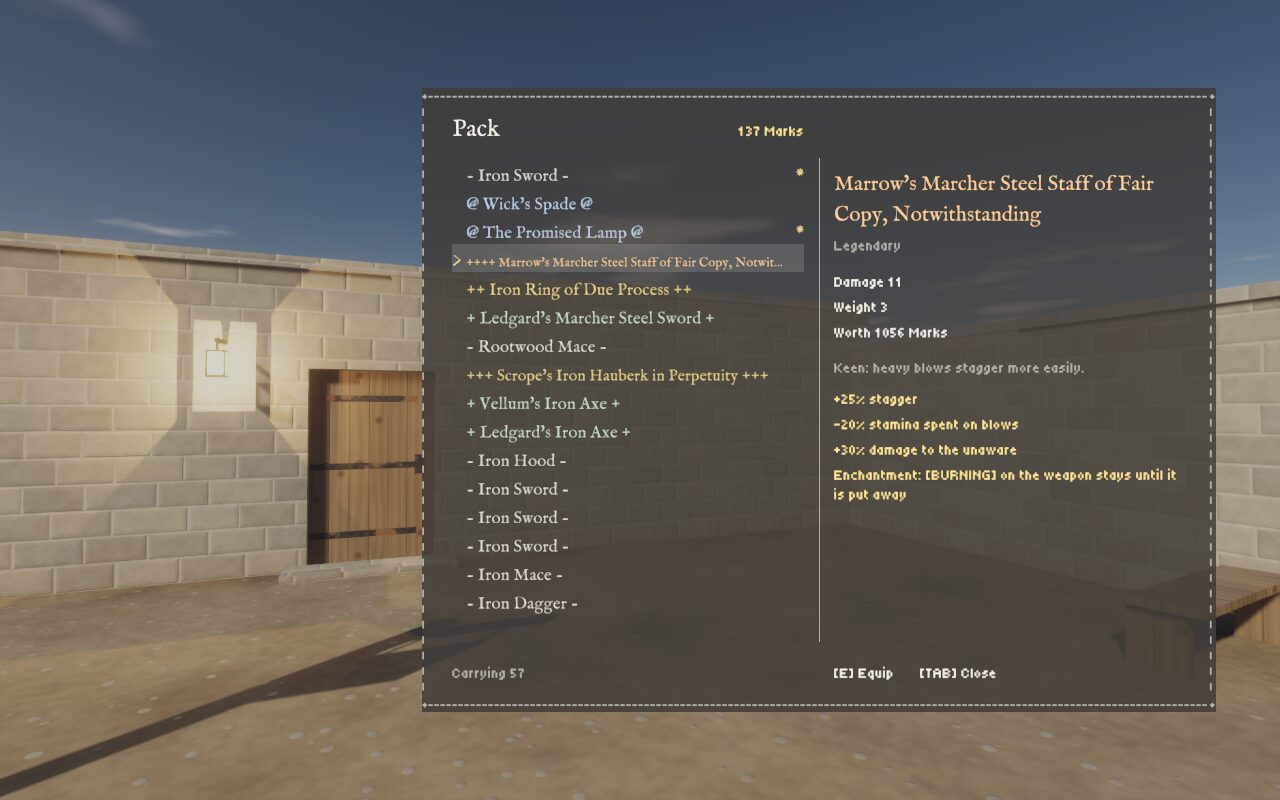
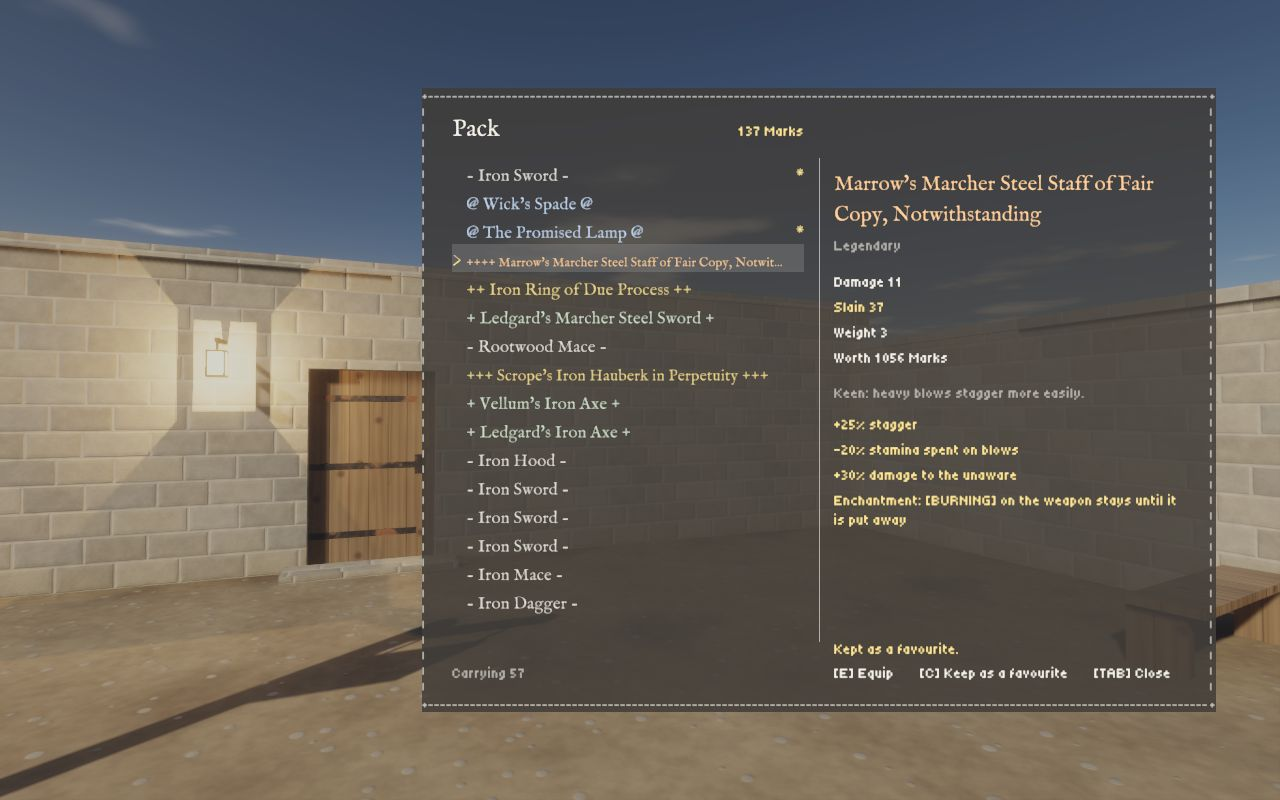
feat(S05-T08): every weapon counts what it has slain
Kept on the item, saved (save version 5, older versions still read), and shown
on its page in the pack. Printing it on the blade waits on the blade's text.

Claude-Session: https://claude.ai/code/session_01729CUtx9ecYqazyoA1zXTK

Changed region(s): [[0.6562, 0.375, 0.9062, 0.6562], [0.6562, 0.7812, 0.9062, 0.8438]]

diff --git a/crates/sim/src/items.rs b/crates/sim/src/items.rs
@@ -74,6 +74,9 @@ pub struct Item {
     pub made: u32,
     /// A Canonical item, by its index in the table's list: its own name and effect.
     pub canonical: Option<usize>,
+    /// What it has done in its owner's hands: the creatures it has slain. A weapon, bow,
+    /// staff, or shield prints it on itself.
+    pub kills: u32,
 }
 
 /// An item's name, as string keys: each part, or none.
@@ -164,7 +167,7 @@ pub fn generate(table: &LootTable, source: &str, seed: u64, known: &[String]) ->
     } else {
         None
     };
-    Some(Item { id: seed, kind, material, tier, bonuses, clauses, word_clause, look: (r.next() % 12) as u32, made: 4060 + (r.next() % 52) as u32, canonical: None })
+    Some(Item { id: seed, kind, material, tier, bonuses, clauses, word_clause, look: (r.next() % 12) as u32, made: 4060 + (r.next() % 52) as u32, canonical: None, kills: 0 })
 }
 
 impl Item {
@@ -173,14 +176,14 @@ impl Item {
     pub fn plain(table: &LootTable, kind: &str, material: &str, id: u64) -> Option<Item> {
         let kind = table.types.iter().position(|t| t.key == kind)?;
         let material = table.materials.iter().position(|m| m.key == material)?;
-        Some(Item { id, kind, material, tier: Tier::Plain, bonuses: Vec::new(), clauses: Vec::new(), word_clause: None, look: 0, made: 4100, canonical: None })
+        Some(Item { id, kind, material, tier: Tier::Plain, bonuses: Vec::new(), clauses: Vec::new(), word_clause: None, look: 0, made: 4100, canonical: None, kills: 0 })
     }
 
     /// A Canonical item, by its key: it has its one authored source.
     pub fn canonical(table: &LootTable, key: &str, id: u64) -> Option<Item> {
         let k = table.canonical.iter().position(|c| c.key == key)?;
         let c = &table.canonical[k];
-        Some(Item { id, kind: c.kind as usize, material: c.material as usize, tier: Tier::Canonical, bonuses: Vec::new(), clauses: Vec::new(), word_clause: None, look: 0, made: 4071, canonical: Some(k) })
+        Some(Item { id, kind: c.kind as usize, material: c.material as usize, tier: Tier::Canonical, bonuses: Vec::new(), clauses: Vec::new(), word_clause: None, look: 0, made: 4071, canonical: Some(k), kills: 0 })
     }
 
     /// A Canonical item's own effect, if it is one.

diff --git a/crates/sim/src/save.rs b/crates/sim/src/save.rs
@@ -12,7 +12,9 @@ use glam::{Quat, Vec3};
 
 use crate::items::{Item, Tier};
 
-const MAGIC: &[u8; 8] = b"VLMKSAV4";
+const MAGIC: &[u8; 8] = b"VLMKSAV5";
+/// The version before items kept their kills: still read, with none counted.
+const MAGIC_4: &[u8; 8] = b"VLMKSAV4";
 /// The version before Redactors struck things: still read, with nothing struck.
 const MAGIC_3: &[u8; 8] = b"VLMKSAV3";
 /// The version before the story's flags were kept: still read, with none set.
@@ -133,11 +135,13 @@ impl W {
         self.u32(i.look);
         self.u32(i.made);
         self.opt_u32(i.canonical.map(|c| c as u32));
+        self.u32(i.kills);
     }
 }
 
 /// Bytes in.
-struct R<'a>(&'a [u8], usize);
+/// The bytes, how far through them, and the save's version.
+struct R<'a>(&'a [u8], usize, u32);
 
 impl R<'_> {
     fn take(&mut self, n: usize) -> Result<&[u8], String> {
@@ -200,7 +204,9 @@ impl R<'_> {
             clauses.push(self.u32()? as usize);
         }
         let word_clause = self.opt_u32()?.map(|w| w as usize);
-        Ok(Item { id, kind, material, tier, bonuses, clauses, word_clause, look: self.u32()?, made: self.u32()?, canonical: self.opt_u32()?.map(|c| c as usize) })
+        let (look, made, canonical) = (self.u32()?, self.u32()?, self.opt_u32()?.map(|c| c as usize));
+        let kills = if self.2 >= 5 { self.u32()? } else { 0 };
+        Ok(Item { id, kind, material, tier, bonuses, clauses, word_clause, look, made, canonical, kills })
     }
 }
 
@@ -311,12 +317,13 @@ impl SaveGame {
 
     pub fn from_bytes(bytes: &[u8]) -> Result<Self, String> {
         let version = match &bytes.get(..8) {
-            Some(m) if *m == MAGIC => 4,
+            Some(m) if *m == MAGIC => 5,
+            Some(m) if *m == MAGIC_4 => 4,
             Some(m) if *m == MAGIC_3 => 3,
             Some(m) if *m == MAGIC_2 => 2,
             _ => return Err("not a Vellmark save".into()),
         };
-        let mut r = R(bytes, 8);
+        let mut r = R(bytes, 8, version);
         let mut s = SaveGame { seconds: r.f64()?, time_of_day: r.f32()?, day: r.u32()?, mornings: r.u32()?, rng: r.u64()?, ..Default::default() };
         for _ in 0..r.count()? {
             let feet = r.v3()?;

diff --git a/crates/sim/tests/items.rs b/crates/sim/tests/items.rs
@@ -82,7 +82,7 @@ fn better_steel_strikes_harder_and_armour_takes_its_share() {
     let iron = first_blow(&mut plain);
     let mut better = world();
     let me = better.snapshot().players[0].id;
-    let fine = Item { id: 9, kind: 0, material: 1, tier: Tier::Fair, bonuses: vec![0], clauses: vec![], word_clause: None, look: 0, made: 4100, canonical: None };
+    let fine = Item { id: 9, kind: 0, material: 1, tier: Tier::Fair, bonuses: vec![0], clauses: vec![], word_clause: None, look: 0, made: 4100, canonical: None, kills: 0 };
     let i = better.give_item(me, fine).unwrap();
     better.equip(me, i);
     let steel = first_blow(&mut better);
@@ -127,4 +127,33 @@ fn the_hands_are_kept_as_a_favourite_and_a_sold_thing_is_forgotten() {
     let mut inv = w.inventory(me).unwrap().clone();
     inv.remove(bow);
     assert_eq!(inv.favourites, vec![(Some(coat - 1), Favourite::Empty)]);
+}
+
+#[test]
+fn a_weapon_counts_what_it_has_slain_and_keeps_the_count_in_a_save() {
+    let mut w = world();
+    let me = w.snapshot().players[0].id;
+    for k in 0..2 {
+        let mut c = Creature::new(60 + k, Vec3::new(0.0, 0.0, -1.6), 0.4, 1.8, 5.0, 100.0);
+        c.aware = true;
+        w.add_creature(c);
+        go(&mut w, 3, buttons::ATTACK_MAIN);
+        go(&mut w, 40, 0);
+    }
+    let sword = w.inventory(me).unwrap().main.unwrap();
+    assert_eq!(w.inventory(me).unwrap().items[sword].kills, 2, "two slain with the sword");
+    // A creature struck and not slain is not counted.
+    let mut c = Creature::new(70, Vec3::new(0.0, 0.0, -1.6), 0.4, 1.8, 5000.0, 100.0);
+    c.aware = true;
+    w.add_creature(c);
+    go(&mut w, 3, buttons::ATTACK_MAIN);
+    go(&mut w, 40, 0);
+    assert_eq!(w.inventory(me).unwrap().items[sword].kills, 2);
+    let save = w.save();
+    let back = vellmark_sim::save::SaveGame::from_bytes(&save.to_bytes()).unwrap();
+    let mut again = world();
+    again.load(&back);
+    let me = again.snapshot().players[0].id;
+    let sword = again.inventory(me).unwrap().main.unwrap();
+    assert_eq!(again.inventory(me).unwrap().items[sword].kills, 2, "kept in the save");
 }

diff --git a/crates/sim/src/world.rs b/crates/sim/src/world.rs
@@ -1996,6 +1996,16 @@ impl World {
                 }
             }
         }
+        // What each weapon has done: a creature slain is counted on what slew it, the
+        // shield for a bash and the main hand's for the rest.
+        for hit in self.hits.iter().filter(|h| h.killed) {
+            if let Some(p) = self.players.iter_mut().find(|p| p.id.0 == hit.player) {
+                let slot = if hit.kind == crate::melee::SwingKind::Bash { p.inventory.off } else { p.inventory.main };
+                if let Some(item) = slot.and_then(|i| p.inventory.items.get_mut(i)) {
+                    item.kills = item.kills.saturating_add(1);
+                }
+            }
+        }
         // What a blow carries passes to what it struck; a shattering blow ends the frost.
         let mut changed = false;
         for hit in &self.hits {

diff --git a/crates/harness/tests/inventory.rs b/crates/harness/tests/inventory.rs
@@ -59,7 +59,9 @@ fn the_pack_lists_what_is_carried_and_pages_the_focused_item() {
         let item = generate(&loot, if seed % 2 == 0 { "boss" } else { "chest" }, seed, &["COLD".into()]).unwrap();
         if !seen[item.tier as usize] && (item.tier as usize != 4 || item.word_clause.is_some()) {
             seen[item.tier as usize] = true;
-            inv.take(item);
+            // The Illuminated one has seen use: its count is on its page.
+            let kills = if item.tier as usize == 4 { 37 } else { 0 };
+            inv.take(Item { kills, ..item });
         }
     }
     for seed in 0..10u64 {

diff --git a/crates/ui/src/inventory_view.rs b/crates/ui/src/inventory_view.rs
@@ -102,6 +102,9 @@ impl InventoryView<'_> {
             if item.damage(self.loot) > 0.0 {
                 line(canvas, &mut y, &stat(sid!("item.stat.damage"), item.damage(self.loot)), kit::ink());
             }
+            if item.kills > 0 {
+                line(canvas, &mut y, &stat(sid!("item.stat.kills"), item.kills as f32), kit::gold());
+            }
             if item.armour(self.loot) > 0.0 {
                 line(canvas, &mut y, &stat(sid!("item.stat.armour"), item.armour(self.loot)), kit::ink());
             }

diff --git a/docs/STATE.md b/docs/STATE.md
@@ -68,6 +68,8 @@
 **Done:** the trade screen (`crates/ui/src/trade_view.rs`), brought forward because it needs no assets: the merchant's stock and the pack side by side on ruled pages, each item at what the merchant asks or pays, both purses, and a refused trade said in plain words (too dear, the merchant's purse is short, held or worn, nothing there). Up and down move along a side, left and right change sides, Interact or South buys or sells, Escape or East leaves; in solo play the world holds still while it is open. A conversation node's `trade` event opens the speaker's stock; the console's `trade` opens a merchant's. Evidence: `docs/evidence/S05/trade.jpg`. Test: `crates/harness/tests/trade.rs`.
 **Not yet:** Tobit Rudd himself, his cart, and his conversation that ends in `trade` (S06-T07, S06-T08).
 
+**Done:** a weapon's count: every weapon, bow, staff, and shield counts the creatures slain with it in its owner's hands (a shield's by bashing), keeps it in a save (save version 5; versions 2 to 4 still read, with nothing counted) and when sold, and shows it on its page in the pack ("Slain 37"). Deeds are the full game's. Tests: `crates/sim/tests/items.rs`, `crates/harness/tests/inventory.rs`.
+**Not yet:** the count printed on the blade itself, with the generated text on each blade (S05-T04).
 **Done:** S05-T08, pickups (`crates/sim/src/inventory.rs`): each player has a pack and what it holds and wears; equipping sets the weapon in hand and the gear steel and words read (damage, speed, reach, stagger, armour, Stamina and block costs, more against staggered, unaware, and unhurt foes, Ink from hits and kills, cheaper words, faster Ink, longer words on the weapon, the materials' traits). A creature leaves an item when it falls (from the annotated list if it was found annotated; once, not from every part an Inkling split into); an item in the gaze is named between its tier's marks, with its tier and how its damage or armour compares with what is held or worn there; Interact takes it, with a chime that rises with the tier; items lie glinting in their tier's colour. The word clauses work: `BURNING` kept on the weapon until it is put away, and a `COLD` written on a foe passed to the next one struck. Favourites: up to eight pairings (an item, and an item or a word), taken up at once by `PlayerInput::favourite`. The game starts the player with a plain Iron Sword. Tests: `crates/sim/tests/items.rs`.
 **Not yet:** the favourites wheel's own screen, with the interface kit (S05-T06).
 
